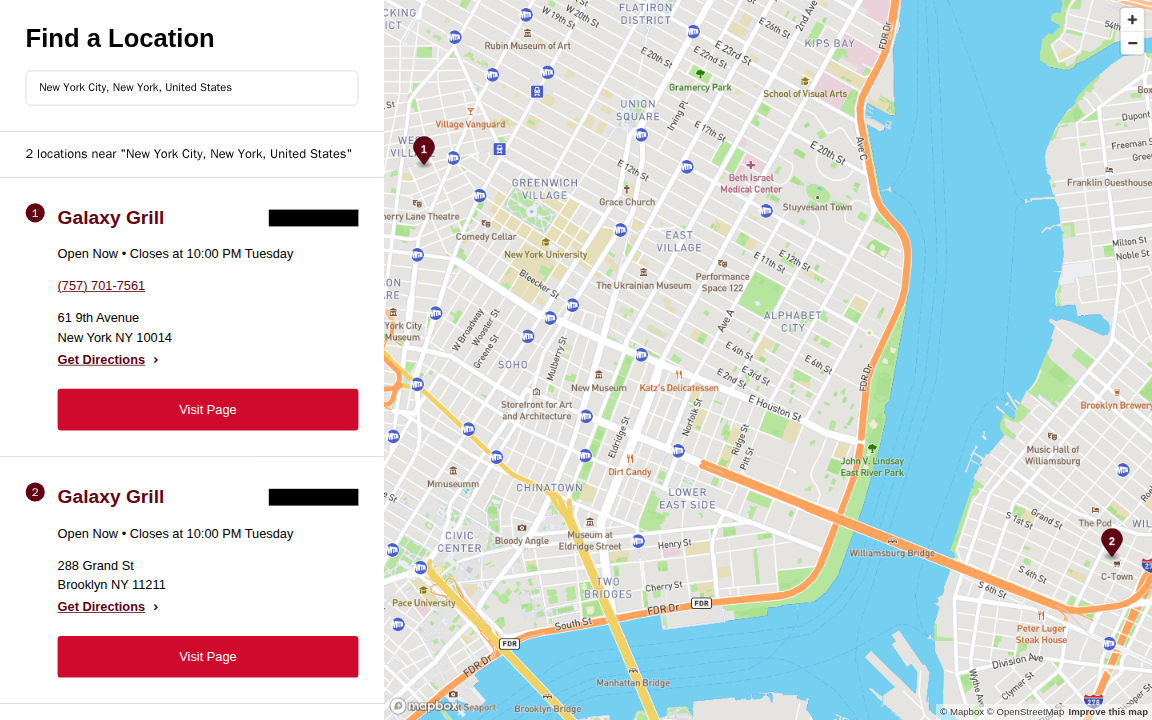
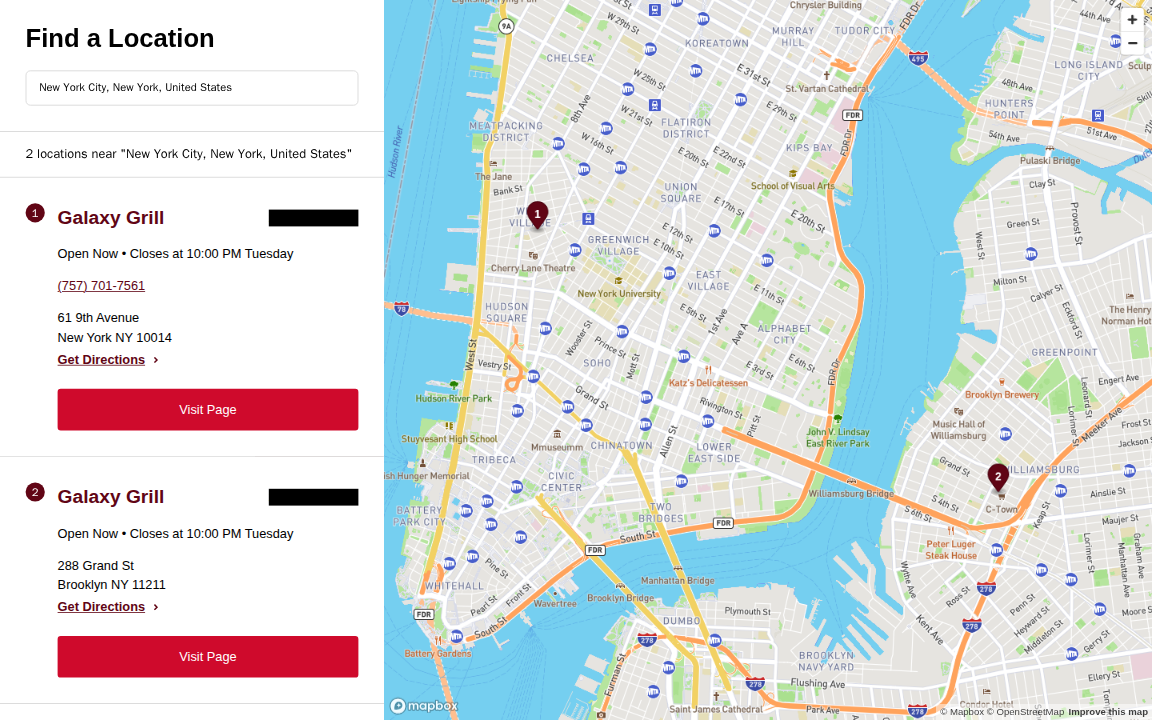
fix: adjust padding in locator map (#661)

diff --git a/packages/visual-editor/src/components/Locator.tsx b/packages/visual-editor/src/components/Locator.tsx
@@ -444,7 +444,10 @@ const LocatorInternal: React.FC<LocatorProps> = (props) => {
       </div>
 
       {/* Right Section: Map. Hidden for small screens */}
-      <div className="md:w-3/5 lg:w-2/3 md:flex hidden relative">
+      <div
+        id="locatorMapDiv"
+        className="md:w-3/5 lg:w-2/3 md:flex hidden relative"
+      >
         <Map {...mapProps} />
         {showSearchAreaButton && (
           <div className="absolute bottom-10 left-0 right-0 flex justify-center">
@@ -477,11 +480,20 @@ const Map: React.FC<MapProps> = ({
   markerOptionsOverride,
 }) => {
   const { t } = useTranslation();
+
+  const documentIsUndefined = typeof document === "undefined";
+  const iframe = documentIsUndefined
+    ? undefined
+    : (document.getElementById("preview-frame") as HTMLIFrameElement);
+
+  const locatorMapDiv = documentIsUndefined
+    ? null
+    : ((iframe?.contentDocument || document)?.getElementById(
+        "locatorMapDiv"
+      ) as HTMLDivElement | null);
+  const mapPadding = getMapboxMapPadding(locatorMapDiv);
+
   // During page generation we don't exist in a browser context
-  const iframe =
-    typeof document === "undefined"
-      ? undefined
-      : (document.getElementById("preview-frame") as HTMLIFrameElement);
   //@ts-expect-error MapboxGL is not loaded in the iframe content window
   if (iframe?.contentDocument && !iframe.contentWindow?.mapboxgl) {
     // We are in an iframe, and mapboxgl is not loaded in yet
@@ -511,6 +523,7 @@ const Map: React.FC<MapProps> = ({
       mapboxAccessToken={mapboxApiKey || ""}
       mapboxOptions={{
         center: centerCoords ?? DEFAULT_MAP_CENTER,
+        fitBoundsOptions: { padding: mapPadding },
         ...(mapStyle ? { style: mapStyle } : {}),
       }}
       onDrag={onDragHandler}
@@ -692,6 +705,22 @@ const getEntityType = (entityTypeEnvVar?: string) => {
   } catch {
     return DEFAULT_ENTITY_TYPE;
   }
+};
+
+const getMapboxMapPadding = (divElement: HTMLDivElement | null) => {
+  if (!divElement) {
+    return 50;
+  }
+
+  const { width, height } = divElement.getBoundingClientRect();
+  const mapVerticalPadding = Math.max(50, height * 0.2);
+  const mapHorizontalPadding = Math.max(50, width * 0.2);
+  return {
+    top: mapVerticalPadding,
+    bottom: mapVerticalPadding,
+    left: mapHorizontalPadding,
+    right: mapHorizontalPadding,
+  };
 };
 
 interface Location {
